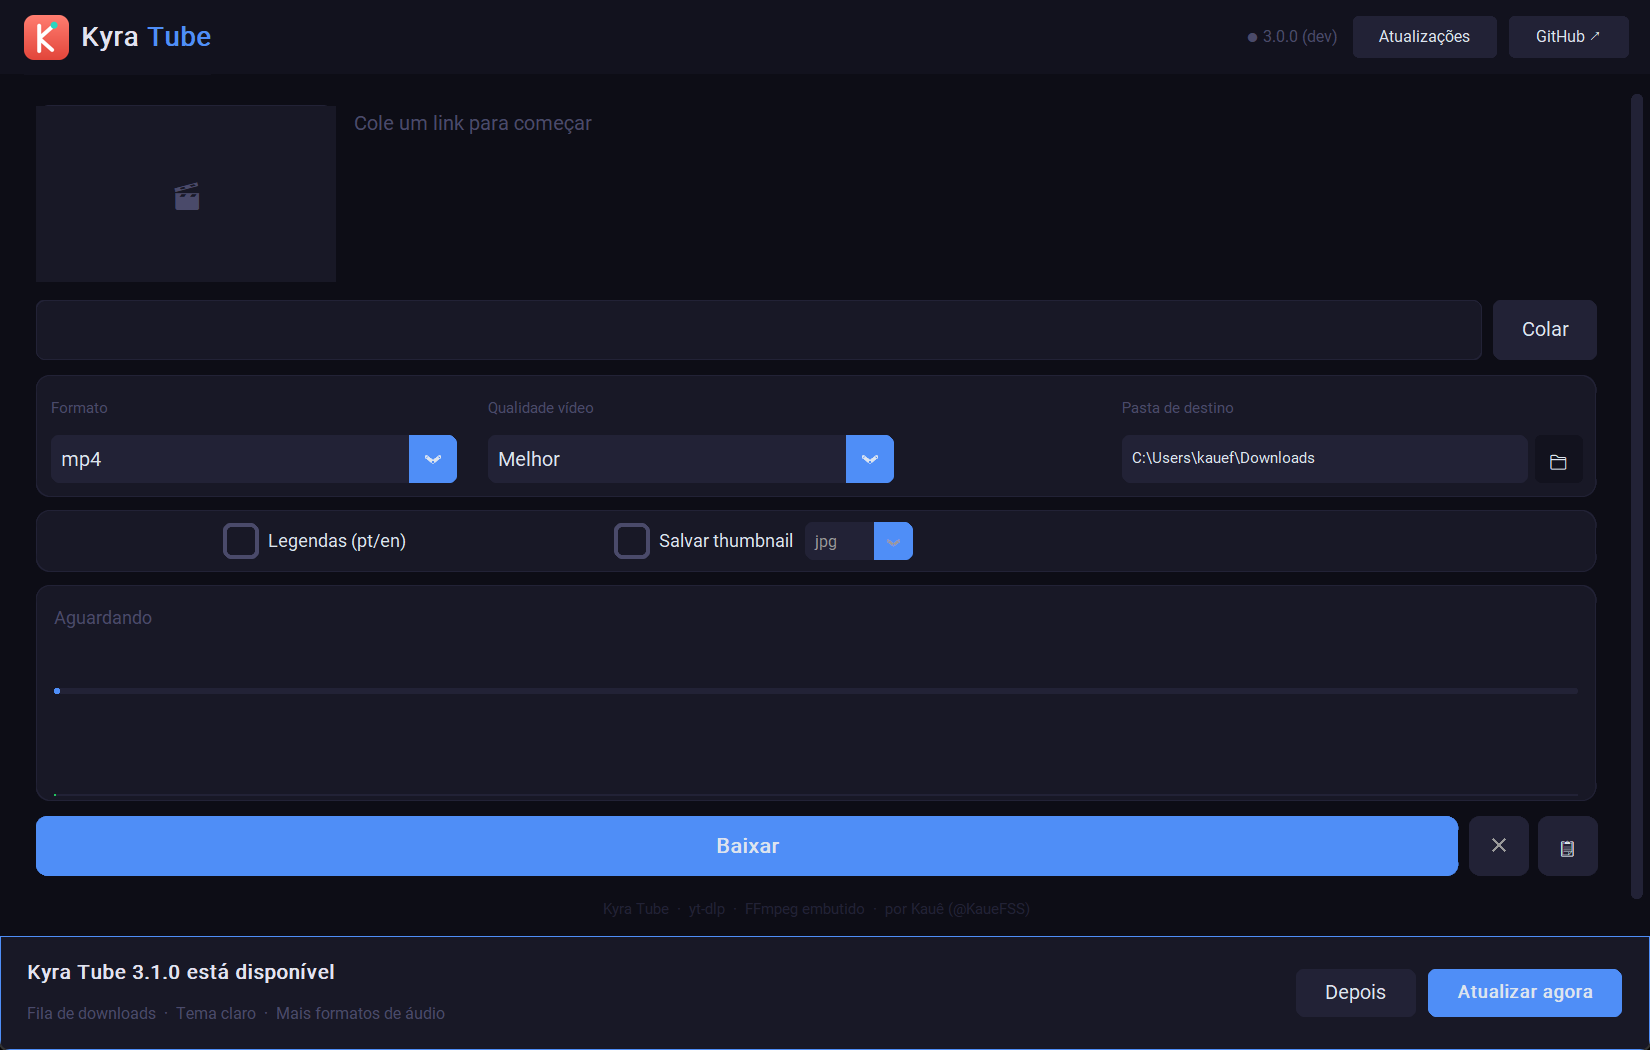
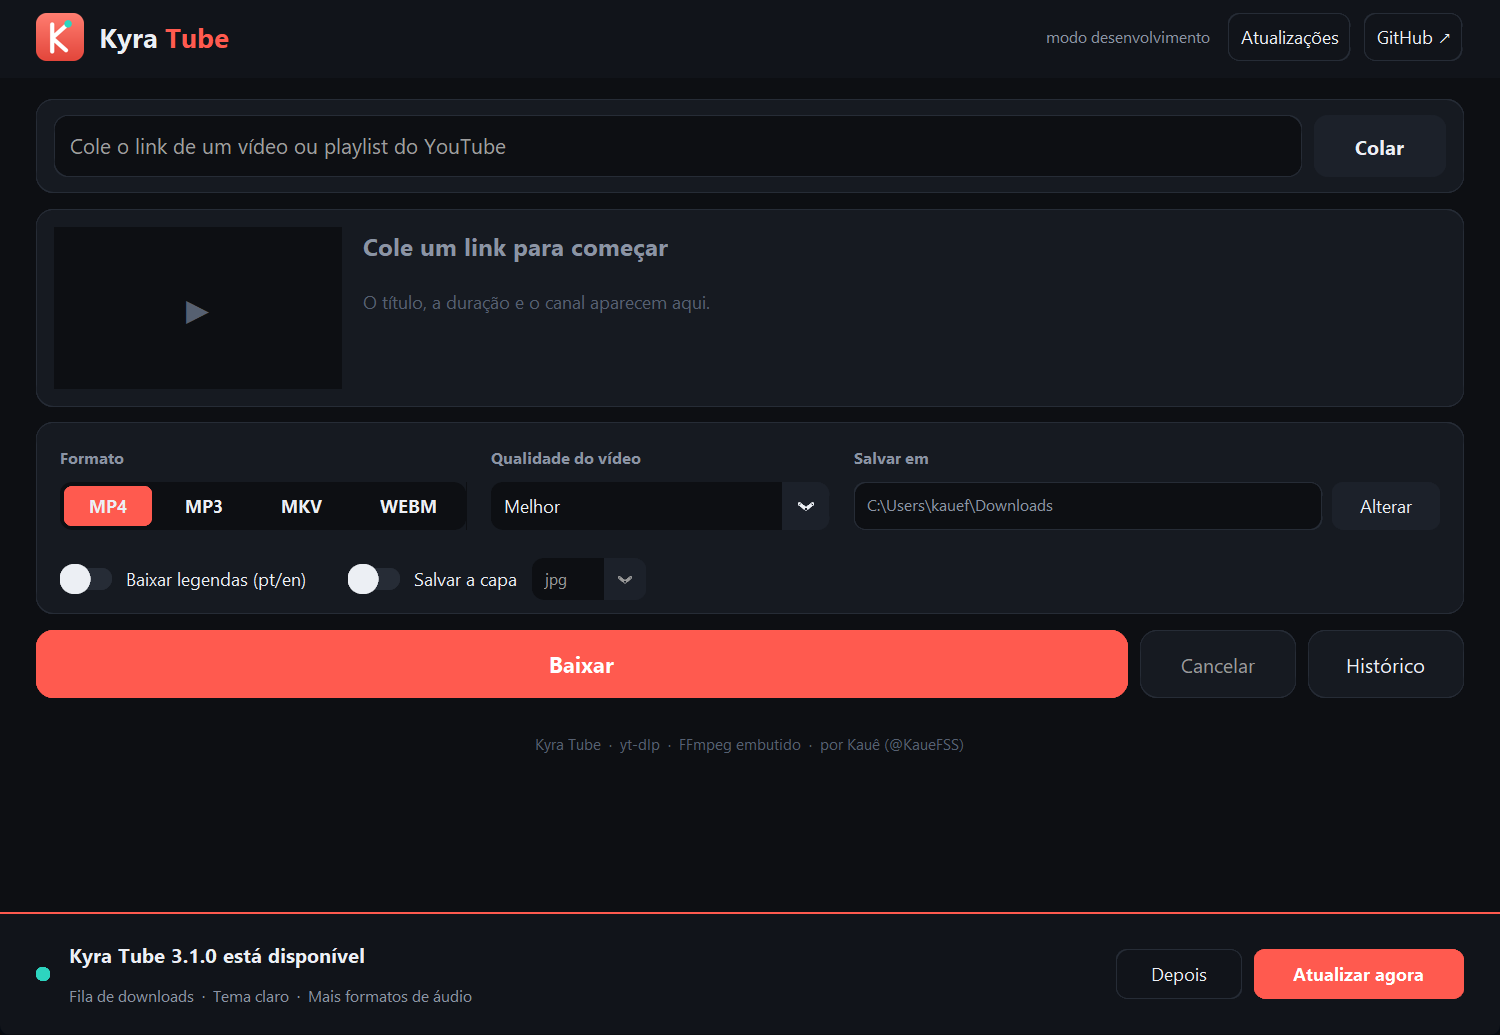
Prints novos e script de captura mais seguro
O script só salva a imagem se os pixels forem mesmo do app, e passou a mostrar também o estado de download.

diff --git a/scripts/screenshots.py b/scripts/screenshots.py
@@ -24,16 +24,19 @@ OUT.mkdir(parents=True, exist_ok=True)
 SAMPLE = "https://www.youtube.com/watch?v=aqz-KE-bpKQ"
 
 app = App()
-app.geometry("1100x700+60+40")
-app.attributes("-topmost", True)
+app.geometry("1000x690+60+30")
 
 
 def grab(name):
-    app.update_idletasks()
+    """Foto só da região da janela do app, com checagem de que é ela mesma (e não outra coisa na tela)."""
+    app.lift()
+    app.attributes("-topmost", True)
+    app.update()
     x, y, w, h = app.winfo_rootx(), app.winfo_rooty(), app.winfo_width(), app.winfo_height()
-    shot = ImageGrab.grab(bbox=(x, y, x + w, y + h))
-    if shot.convert("L").getextrema()[1] < 10:   # tela apagada/bloqueada: não salva imagem preta
-        raise SystemExit("A captura saiu preta (tela bloqueada?). Tente de novo com a tela ligada.")
+    shot = ImageGrab.grab(bbox=(x, y, x + w, y + h)).convert("RGB")
+    bar = shot.getpixel((w // 2, 12))                 # a barra de cima tem a cor SURFACE
+    if max(abs(bar[0] - 17), abs(bar[1] - 20), abs(bar[2] - 26)) > 6:
+        raise SystemExit(f"A captura não parece ser a janela do app (cor {bar}). Tente de novo.")
     shot.save(OUT / name)
     print("salvo:", OUT / name)
 
@@ -52,6 +55,21 @@ def step_shot_banner():
 
 def step_shot_window():
     grab("janela.png")
+    # Estado "baixando" simulado só para o print (nada é baixado de verdade).
+    app.progress_card.grid()
+    app.prog_lbl.configure(text="Baixando…  42,3%")
+    app.speed_lbl.configure(text="4,8 MiB/s  ·  ETA 00:21")
+    app.pbar.set(0.423)
+    app.status_lbl.configure(text="Big Buck Bunny 60fps 4K - Official Blender Foundation Short Film.mp4")
+    app.vid_prog_lbl.configure(text="")
+    app.vid_pbar.set(0)
+    app.dl_btn.configure(state="disabled", text="Baixando…")
+    app.cancel_btn.configure(state="normal")
+    app.after(800, step_shot_progress)
+
+
+def step_shot_progress():
+    grab("baixando.png")
     app.destroy()
 
 

diff --git a/README.md b/README.md
@@ -16,7 +16,7 @@
 
 <br />
 
-<img src="docs/screenshots/janela.png" alt="Janela do Kyra Tube com um vídeo carregado" width="90%" />
+<img src="docs/screenshots/janela.png" alt="Janela do Kyra Tube com um vídeo carregado" width="88%" />
 
 </div>
 
@@ -31,6 +31,13 @@ Por baixo, usa o [yt-dlp](https://github.com/yt-dlp/yt-dlp) para obter e baixar 
 > Faz parte da família **Kyra**, uma coleção de ferramentas pequenas e bem-cuidadas feitas por [Kauê](https://github.com/KaueFSS), como o [Kyra Plan](https://github.com/KaueFSS/Kyra-Plan).
 
 ## Recursos
+
+<div align="center">
+<img src="docs/screenshots/baixando.png" alt="Download em andamento, com velocidade e tempo restante" width="88%" />
+</div>
+
+<br />
+
 
 - **Vídeo** em MP4, MKV ou WebM, de 360p até 4K (ou a melhor qualidade disponível)
 - **Áudio** em MP3 de 96 a 320 kbps
